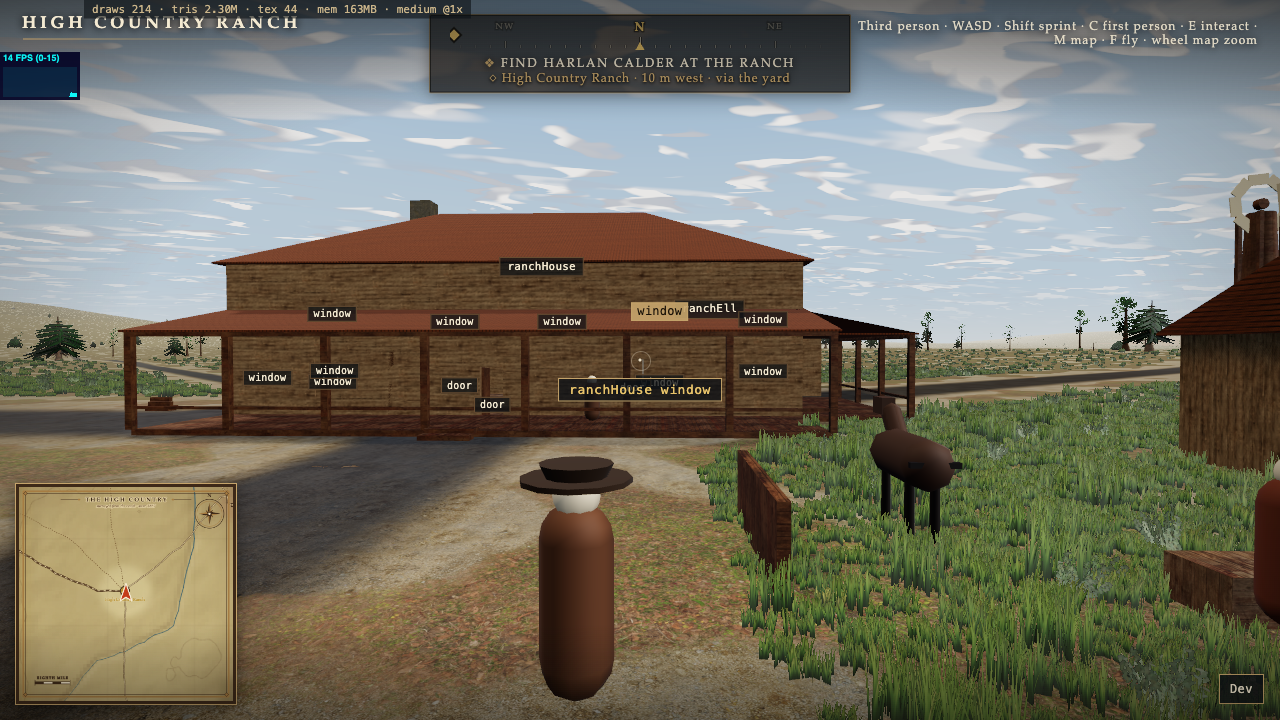
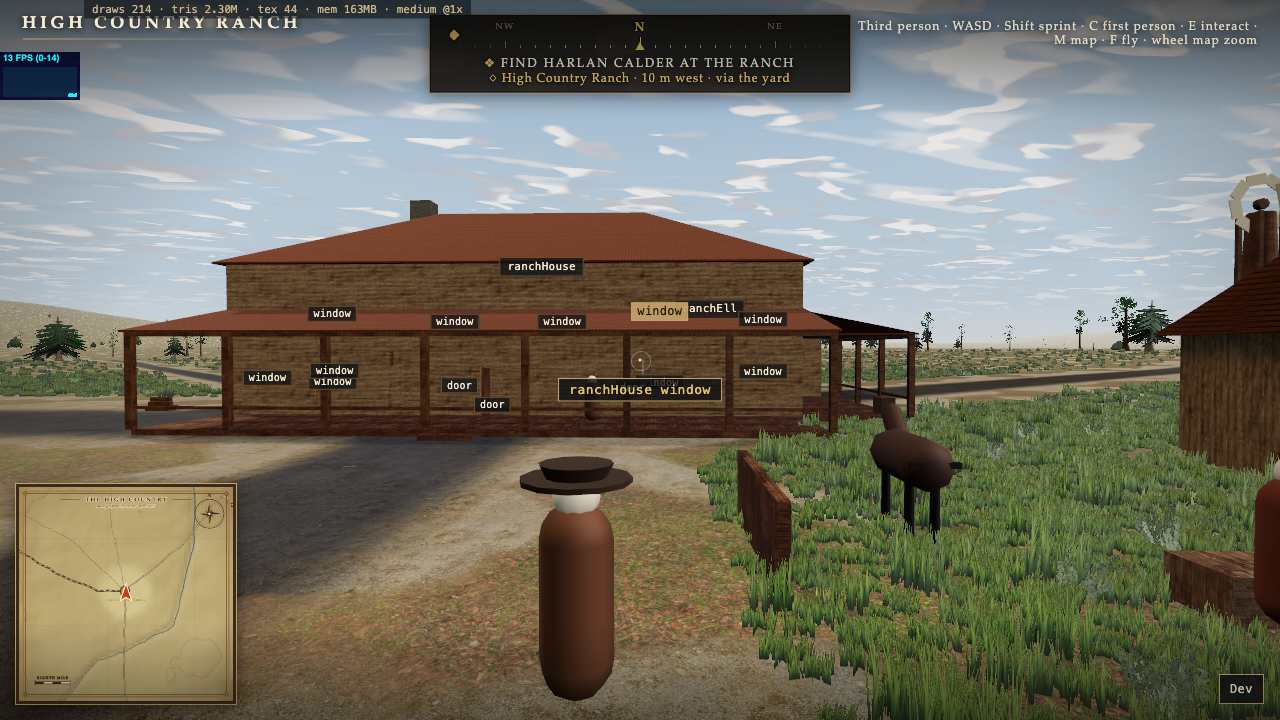
The HUD plaque backed the top-centre instruments but sat at two-thirds opacity, so bright sky still bled through and the cream marks read at half strength. The plate is now near-solid with a vertical gradient falling off toward the gold hairline, the tape's ticks and cardinals dropped their old sky-
Evidence: audit/evidence/hud-plate.png (recaptured). WebGPU headed; check suite 23 PASS.

diff --git a/src/main.js b/src/main.js
@@ -1190,13 +1190,13 @@ async function boot() {
       const alpha = Math.max(0, Math.min(1, edge * 1.6));
       if (!cardinal && !inter) {
         // minor tick: a short faint mark, doubled with the same dark underlay
-        ctx.strokeStyle = `rgba(10, 8, 5, ${0.4 * alpha})`;
+        ctx.strokeStyle = `rgba(10, 8, 5, ${0.6 * alpha})`;
         ctx.lineWidth = 2;
         ctx.beginPath();
         ctx.moveTo(x + 0.5, h - 4);
         ctx.lineTo(x + 0.5, h - 7);
         ctx.stroke();
-        ctx.strokeStyle = `rgba(244, 234, 210, ${0.4 * alpha})`;
+        ctx.strokeStyle = `rgba(244, 234, 210, ${0.72 * alpha})`;
         ctx.lineWidth = 1;
         ctx.beginPath();
         ctx.moveTo(x + 0.5, h - 4);
@@ -1206,13 +1206,13 @@ async function boot() {
       if (cardinal || inter) {
         // every stroke gets a dark twin first: cream on bright sky vanishes,
         // cream over a hair of black shadow holds
-        ctx.strokeStyle = `rgba(10, 8, 5, ${0.55 * alpha})`;
+        ctx.strokeStyle = `rgba(10, 8, 5, ${0.8 * alpha})`;
         ctx.lineWidth = 3;
         ctx.beginPath();
         ctx.moveTo(x + 0.5, h - 4);
         ctx.lineTo(x + 0.5, h - (cardinal ? 15 : inter ? 11 : 0));
         ctx.stroke();
-        ctx.strokeStyle = `rgba(244, 234, 210, ${0.62 * alpha})`;
+        ctx.strokeStyle = `rgba(244, 234, 210, ${0.92 * alpha})`;
         ctx.lineWidth = 1;
         ctx.beginPath();
         ctx.moveTo(x + 0.5, h - 4);
@@ -1221,17 +1221,17 @@ async function boot() {
       }
       if (cardinal) {
         ctx.font = "600 12px Palatino, 'Palatino Linotype', Georgia, serif";
-        ctx.strokeStyle = `rgba(10, 8, 5, ${0.6 * alpha})`;
+        ctx.strokeStyle = `rgba(10, 8, 5, ${0.85 * alpha})`;
         ctx.lineWidth = 3;
         ctx.strokeText("NESW"[norm / 90], x, 13);
         ctx.fillStyle = `rgba(232, 195, 106, ${alpha})`;
         ctx.fillText("NESW"[norm / 90], x, 13);
       } else if (inter) {
         ctx.font = "9px Palatino, 'Palatino Linotype', Georgia, serif";
-        ctx.strokeStyle = `rgba(10, 8, 5, ${0.6 * alpha})`;
+        ctx.strokeStyle = `rgba(10, 8, 5, ${0.85 * alpha})`;
         ctx.lineWidth = 3;
         ctx.strokeText(["NE", "SE", "SW", "NW"][(norm - 45) / 90], x, 11);
-        ctx.fillStyle = `rgba(244, 234, 210, ${0.72 * alpha})`;
+        ctx.fillStyle = `rgba(244, 234, 210, ${0.92 * alpha})`;
         ctx.fillText(["NE", "SE", "SW", "NW"][(norm - 45) / 90], x, 11);
       }
     }

diff --git a/css/game.css b/css/game.css
@@ -81,10 +81,10 @@ body > canvas { display: block; width: 100%; height: 100%; }
   display: flex;
   flex-direction: column;
   align-items: center;
-  background: rgba(14, 9, 4, 0.66);
-  border: 1px solid rgba(196, 163, 106, 0.5);
+  background: linear-gradient(rgba(10, 7, 3, 0.92), rgba(16, 10, 4, 0.82));
+  border: 1px solid rgba(196, 163, 106, 0.65);
   border-radius: 2px;
-  box-shadow: 0 2px 14px rgba(0, 0, 0, 0.4), inset 0 0 0 1px rgba(0, 0, 0, 0.5);
+  box-shadow: 0 2px 14px rgba(0, 0, 0, 0.45), inset 0 0 0 1px rgba(0, 0, 0, 0.55);
   padding: 3px 20px 7px;
 }
 #hud-center.hidden {
@@ -246,12 +246,13 @@ button {
   font-size: 12px;
   letter-spacing: 0.16em;
   text-transform: uppercase;
+  color: #f6efdd;
   padding-top: 5px;
   text-shadow: 0 1px 8px #000;
 }
 #objective::before {
   content: "❖ ";
-  color: #c4a36a;
+  color: #e8c36a;
 }
 /* before the game starts (and between missions) both lines are empty — the
    ornaments must not render as floating dots on an empty plate */
@@ -277,11 +278,12 @@ button {
   text-align: center;
   font-size: 12px;
   letter-spacing: 0.08em;
-  color: #c4a36a;
+  color: #e8c36a;
   text-shadow: 0 1px 3px rgba(0, 0, 0, 0.95), 0 0 9px rgba(0, 0, 0, 0.7);
 }
 #objective-target::before {
   content: "◇ ";
+  color: #e8c36a;
 }
 #toast {
   position: absolute;
